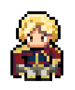
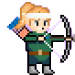
fix($archer): change archer img

diff --git a/adventurer.py b/adventurer.py
@@ -33,9 +33,9 @@ class Adventurer(Sprite):
     def blitme(self):        
         self.screen.blit(self.image, self.rect)
         pygame.draw.rect(self.screen, (0, 128, 0),
-                         (self.blood_bar_position[0], self.blood_bar_position[1], self.rect.width, 8))
+                         (self.blood_bar_position[0], self.blood_bar_position[1], 80, 8))
         pygame.draw.rect(self.screen, (255, 0, 0),
-                         (self.blood_bar_position[0], self.blood_bar_position[1], (self.life * self.rect.width/self.maxLife), 8))
+                         (self.blood_bar_position[0], self.blood_bar_position[1], (self.life * 80/self.maxLife), 8))
 
     def getPosition(self):
         return self.rect.x, self.rect.y
